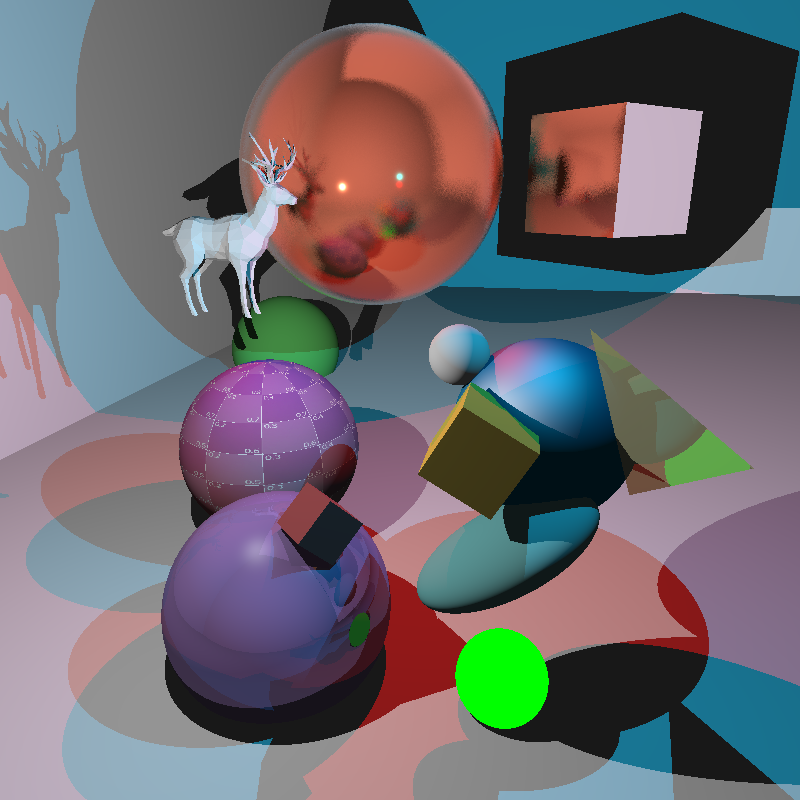
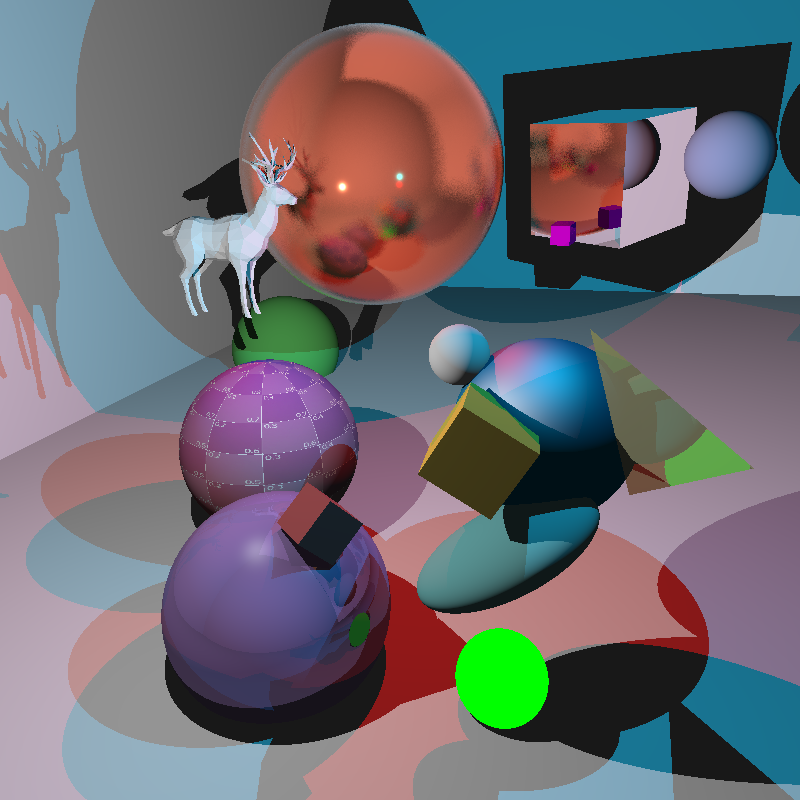
Update scene to highlight reflections

diff --git a/README.md b/README.md
@@ -15,7 +15,7 @@ A ray tracer written in Rust which implements Blinn-Phong shading and physically
 
 All renders are in the [renders](./renders/renders.md) folder.
 
-`scenes/scene.json` (800 x 800 pixels, 6,686,180 rays, 2.271s on i7 8650U):
+`scenes/scene.json` (800 x 800 pixels, 6,615,349 rays, 2.370s on i7 8650U):
 
 ![scene.json](./renders/scene.png)
 

diff --git a/renders/renders.md b/renders/renders.md
@@ -2,7 +2,7 @@
 
 #### `scenes/scene.json`
 
-800 x 800 pixels, 6,686,180 rays, 2.271s on i7 8650U
+800 x 800 pixels, 6,615,349 rays, 2.370s on i7 8650U
 
 ![scene.json](./scene.png)
 
